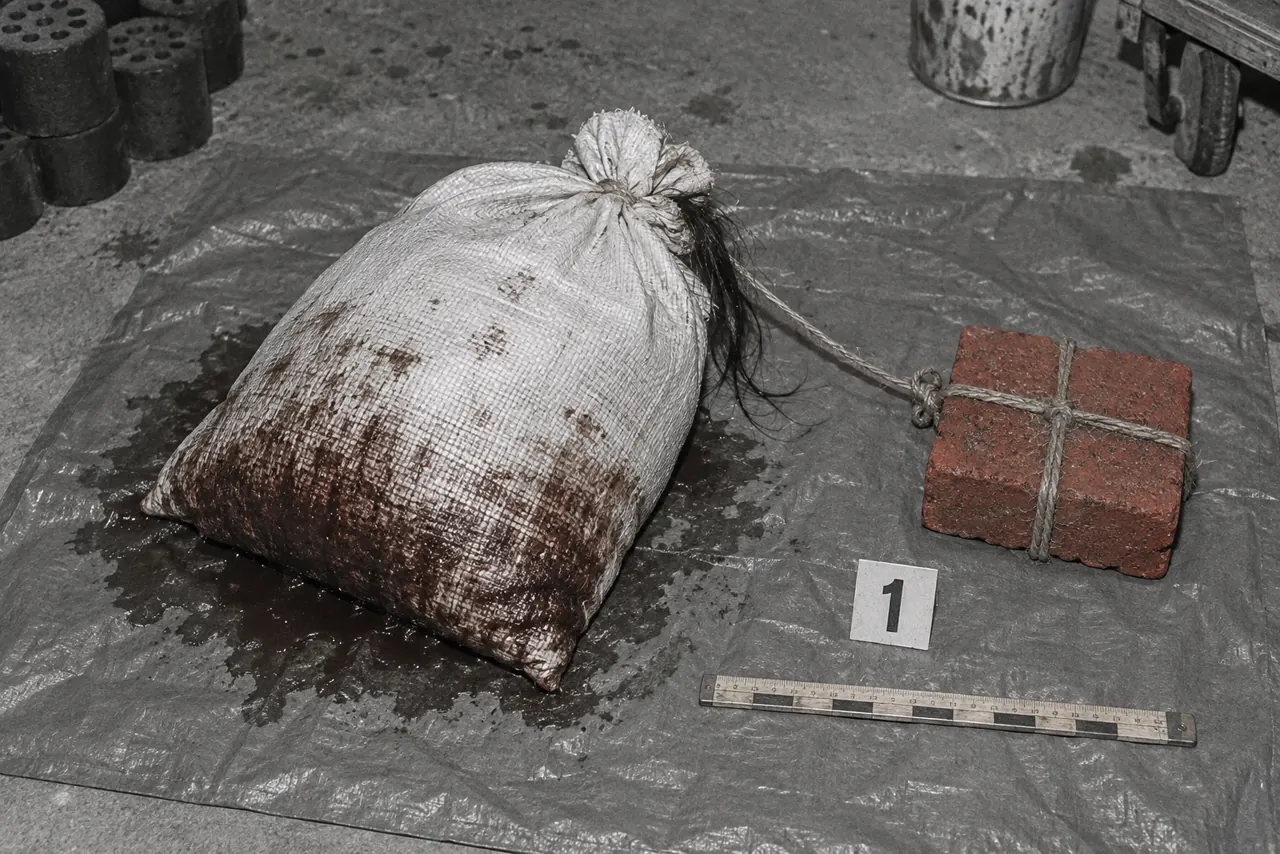
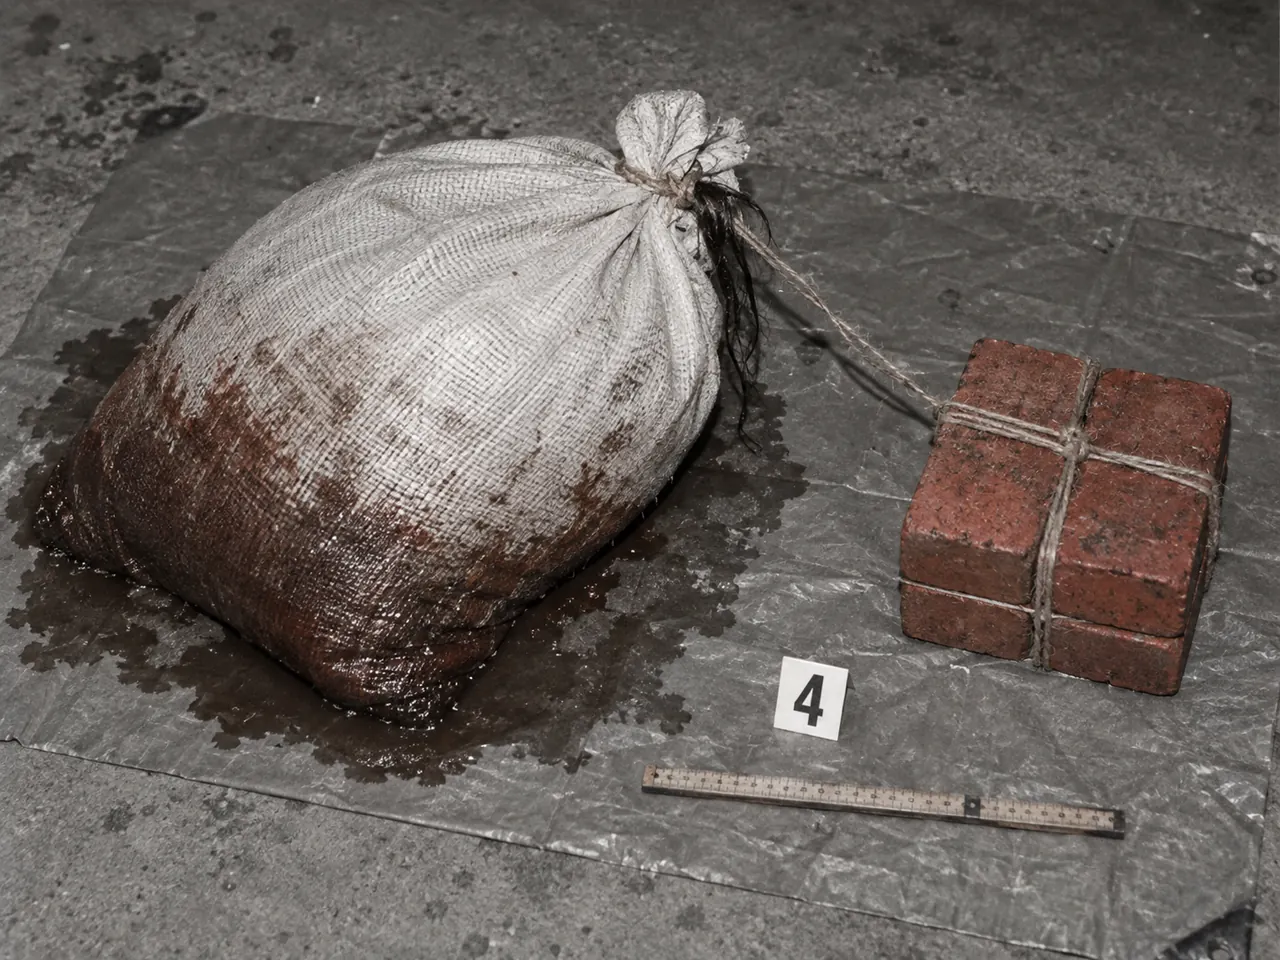
The CASE 11 evidence photo of the fourth sack now shows the four red bricks the records count (two by two, bound in a cross), not a single brick

diff --git a/img/manifest.js b/img/manifest.js
@@ -204,7 +204,7 @@ window.MG.images = {
   "c11/news_shop": "img/c11/news_shop.webp?v=9da5449d",
   "c11/news_workshop": "img/c11/news_workshop.webp?v=7d2b2172",
   "c11/occ_reeds": "img/c11/occ_reeds.webp?v=1f91f230",
-  "c11/photo_sack": "img/c11/photo_sack.webp?v=334abcea",
+  "c11/photo_sack": "img/c11/photo_sack.webp?v=0cc3afc0",
   "c11/ph_lumi": "img/c11/ph_lumi.webp?v=ac7ae0a0",
   "c11/ph_match": "img/c11/ph_match.webp?v=48c982f4",
   "c11/ph_print": "img/c11/ph_print.webp?v=5c534f00",
@@ -299,4 +299,4 @@ window.MG.images = {
   "_global/paper": "img/_global/paper.webp?v=da0f1de2",
   "_global/warn": "img/_global/warn.webp?v=1bc88cad"
 };
-window.MG.imageSize = {"c00/award":[1280,854],"c00/booth":[1280,960],"c00/bridge":[1280,960],"c00/cake":[1280,854],"c00/cat":[1280,960],"c00/cover":[1280,960],"c00/cover_bg":[640,480],"c00/cover_s":[260,196],"c00/cup":[1280,854],"c00/desk":[1280,960],"c00/doorbag":[1280,960],"c00/sketch":[1280,854],"c01/b_register":[1280,854],"c01/cover":[1280,960],"c01/cover_bg":[640,480],"c01/cover_s":[260,196],"c01/l_letter":[1280,960],"c01/l_postcard":[1280,854],"c01/l_slip":[1280,854],"c01/map":[1280,1170],"c01/q_lamp":[1280,854],"c01/q_thread":[1280,1072],"c01/s_candle":[1280,854],"c01/s_court":[1280,854],"c01/s_fundbox":[1280,854],"c01/s_patrol":[1280,854],"c01/s_sailor":[1280,854],"c01/s_tanners":[1280,854],"c02/attic":[1280,854],"c02/autopsy_table":[1280,960],"c02/barn_floor":[1280,960],"c02/calendar":[1280,1170],"c02/cover":[1280,854],"c02/cover_bg":[640,428],"c02/cover_s":[260,174],"c02/farm":[1280,854],"c02/hausbuch":[1280,854],"c02/hut":[1280,854],"c02/kasten":[1280,1170],"c02/kitchen":[1280,854],"c02/lock":[1280,1072],"c02/mailbox":[1280,854],"c02/plan":[1280,854],"c02/sk_kitchen":[1280,854],"c02/sk_stall":[1280,854],"c02/sledge":[1280,406],"c02/stall":[1280,854],"c02/suitcase":[1280,960],"c03/b_cafe":[1280,854],"c03/b_sewing":[1280,854],"c03/cover":[1280,1066],"c03/cover_bg":[640,534],"c03/cover_s":[260,216],"c03/map":[1222,1288],"c03/n_boheol":[1280,1072],"c03/n_jodk":[1280,854],"c03/n_singer":[1280,1072],"c03/p_radio":[1280,1024],"c03/p_safe":[1280,1170],"c03/p_shop":[1280,854],"c03/p_well":[1280,854],"c04/bike":[1280,854],"c04/bikephoto":[1280,960],"c04/boxes":[1280,960],"c04/cover":[1280,854],"c04/cover_bg":[640,428],"c04/cover_s":[260,174],"c04/flare":[1280,960],"c04/kurotaki":[1280,854],"c04/letter":[1280,854],"c04/map":[1280,854],"c04/matchbox":[1280,960],"c04/montage":[1030,1182],"c04/scene":[1280,720],"c04/siteboard":[1280,960],"c04/wind":[1280,960],"c05/cedar":[1280,720],"c05/cedar_car":[1280,960],"c05/cipherimg":[1280,960],"c05/cover":[1280,960],"c05/cover_bg":[640,480],"c05/cover_s":[260,196],"c05/depot":[1280,720],"c05/env_four":[1280,854],"c05/env_ref":[1280,854],"c05/env_sheriff":[1280,854],"c05/env_star":[1280,854],"c05/env_typed":[1280,854],"c05/letter1":[1280,854],"c05/lighthouse":[1280,720],"c05/masonhill":[1280,720],"c05/mh_car":[1280,960],"c05/payphone":[1086,1448],"c05/sketch":[1086,1448],"c05/truck":[1280,720],"c05/typed":[1280,960],"c06/autopsy_sheet":[1244,932],"c06/bags_table":[1280,854],"c06/cover":[1280,854],"c06/cover_bg":[640,428],"c06/cover_s":[260,174],"c06/fuel":[1280,854],"c06/harbor":[1280,854],"c06/hytte":[1280,854],"c06/regcard":[1280,960],"c06/scene_hollow":[1280,960],"c06/ship":[1280,854],"c06/station":[1280,854],"c06/stern":[1280,854],"c06/suitcases":[1280,960],"c06/thermos":[1280,854],"c06/touristmap":[1280,960],"c06/valley":[1280,960],"c07/cover":[1280,854],"c07/cover_bg":[640,428],"c07/cover_s":[260,174],"c07/handbag":[1280,960],"c07/house":[1280,960],"c07/ledger_page":[1280,960],"c07/news_car":[1280,854],"c07/photo_car":[1280,854],"c07/photo_seat":[1280,854],"c07/scene_map":[1280,854],"c07/seokcar":[1280,854],"c07/shop":[1280,854],"c07/songwol_gate":[1280,854],"c07/switchboard":[1280,960],"c07/tv":[1254,1254],"c08/booth":[1280,854],"c08/church":[1086,1448],"c08/cover":[1280,854],"c08/cover_bg":[640,428],"c08/cover_s":[260,174],"c08/flyer":[1280,854],"c08/keys":[1280,960],"c08/map":[1280,854],"c08/montage":[1086,1448],"c08/montage_print":[1086,1448],"c08/news_site":[1280,960],"c08/note_paper":[1280,854],"c08/rail":[1280,854],"c08/ransom_bag":[1280,854],"c08/sg_call":[1200,576],"c08/sg_han":[1200,576],"c08/sg_jang":[1200,576],"c08/sg_tak":[1200,576],"c08/sg_yeom":[1200,576],"c08/shop_ledger":[1280,960],"c08/warehouse":[1280,960],"c09/busstop":[1280,854],"c09/cctv":[1280,854],"c09/courier_room":[1280,854],"c09/cover":[1280,960],"c09/cover_bg":[640,480],"c09/cover_s":[260,196],"c09/door":[1280,960],"c09/frames":[1280,960],"c09/haeun_photo":[1280,854],"c09/house204":[1280,960],"c09/house217":[1280,960],"c09/house219":[1280,854],"c09/house226":[1280,854],"c09/house230":[1280,960],"c09/map":[1280,854],"c09/mt_photo":[1280,854],"c09/ph217":[1280,960],"c09/ph219":[1280,960],"c09/roof":[1280,854],"c09/sora_photo":[1280,960],"c10/cam_a":[1280,854],"c10/cam_b":[1280,854],"c10/cam_pier":[1280,960],"c10/cam_store":[1280,960],"c10/cam_taxi":[1280,854],"c10/cap":[1280,960],"c10/cover":[1280,854],"c10/cover_bg":[640,428],"c10/cover_s":[260,174],"c10/crates":[1280,960],"c10/hoesik":[1280,960],"c10/pier_day":[1280,960],"c11/autopsy_room":[1280,854],"c11/bus":[1280,854],"c11/butcher_floor":[1280,854],"c11/butcher_lumi":[1280,854],"c11/cover":[1280,854],"c11/cover_bg":[640,428],"c11/cover_s":[260,174],"c11/cut_a":[1280,854],"c11/cut_b":[1280,854],"c11/cut_c":[1280,854],"c11/cut_d":[1280,854],"c11/cut_ev":[1280,854],"c11/gauge":[1280,854],"c11/items_table":[1280,854],"c11/ledger_page":[1280,854],"c11/news_bridge":[1280,854],"c11/news_divers":[1280,854],"c11/news_reeds":[1280,854],"c11/news_shop":[1280,854],"c11/news_workshop":[1280,854],"c11/occ_reeds":[1280,854],"c11/photo_sack":[1280,854],"c11/ph_lumi":[1280,854],"c11/ph_match":[1280,854],"c11/ph_print":[1280,854],"c11/workshop_floor":[1280,854],"c12/bagsample":[1280,854],"c12/boiler":[1280,854],"c12/butcher":[1280,854],"c12/cleancart":[1280,1024],"c12/cover":[1280,854],"c12/cover_bg":[640,428],"c12/cover_s":[260,174],"c12/dengon":[1280,854],"c12/luminol":[1280,854],"c12/n_park":[1280,854],"c12/pinkphone":[1024,1536],"c12/room":[1280,1072],"c12/scene_bin":[1280,854],"c12/sento":[1024,1536],"c12/sk_east":[1280,854],"c12/sk_lum":[1280,854],"c12/sk_sento":[1280,854],"c12/store":[1280,854],"c12/trap":[1280,854],"c12/videocard":[1280,854],"c12/wp":[1280,854],"c13/alley_day":[1280,960],"c13/bread":[1280,960],"c13/cctv_drop":[1280,720],"c13/cctv_pick":[1280,720],"c13/counter":[1280,854],"c13/cover":[1280,960],"c13/cover_bg":[640,480],"c13/cover_s":[260,196],"c13/door":[1280,960],"c13/drop":[1280,960],"c13/kick":[1280,960],"c13/locker":[1280,960],"c13/room":[1280,854],"c13/store":[1280,960],"c13/tablet":[1280,960],"c14/atm":[1280,960],"c14/bankbook":[1280,960],"c14/calendar":[1280,960],"c14/cover":[1280,960],"c14/cover_bg":[640,480],"c14/cover_s":[260,196],"c14/fakedoc":[1280,960],"c14/lock":[1280,960],"c14/market":[1280,960],"c14/oksun":[1280,960],"c14/park":[1280,720],"c14/scooter":[1280,960],"c14/sk_door":[1280,854],"c14/sk_locker":[1280,854],"c14/stakeout":[1280,720],"c15/carlot":[1280,854],"c15/carwash":[1280,720],"c15/cctv_lane":[1280,960],"c15/cover":[1280,960],"c15/cover_bg":[640,480],"c15/cover_s":[260,196],"c15/elev_cam":[1280,960],"c15/futsal":[1280,960],"c15/helmet_cam":[1280,720],"c15/note_photo":[1280,960],"c15/plate_photo":[1280,960],"c15/shoes":[1280,960],"c15/tracker_photo":[1280,960],"c15/watch_found":[1280,960],"_desk/ashtray":[600,594],"_desk/cassette":[600,400],"_desk/clips":[600,616],"_desk/energy":[600,600],"_desk/evidencebag":[600,900],"_desk/flipphone":[600,970],"_desk/glasses":[600,208],"_desk/inkpen":[600,588],"_desk/lanyard":[600,600],"_desk/magnifier":[600,602],"_desk/matchbox":[600,552],"_desk/mug":[600,488],"_desk/pager":[600,560],"_desk/pencil":[600,70],"_desk/pocketwatch":[600,588],"_desk/radio":[600,900],"_desk/smartphone":[600,1096],"_desk/stamp":[600,548],"_desk/takeaway":[600,706],"_desk/teacup":[600,602],"_global/desk":[1024,1024],"_global/hero":[1672,942],"_global/paper":[1024,1024],"_global/warn":[600,200]};
+window.MG.imageSize = {"c00/award":[1280,854],"c00/booth":[1280,960],"c00/bridge":[1280,960],"c00/cake":[1280,854],"c00/cat":[1280,960],"c00/cover":[1280,960],"c00/cover_bg":[640,480],"c00/cover_s":[260,196],"c00/cup":[1280,854],"c00/desk":[1280,960],"c00/doorbag":[1280,960],"c00/sketch":[1280,854],"c01/b_register":[1280,854],"c01/cover":[1280,960],"c01/cover_bg":[640,480],"c01/cover_s":[260,196],"c01/l_letter":[1280,960],"c01/l_postcard":[1280,854],"c01/l_slip":[1280,854],"c01/map":[1280,1170],"c01/q_lamp":[1280,854],"c01/q_thread":[1280,1072],"c01/s_candle":[1280,854],"c01/s_court":[1280,854],"c01/s_fundbox":[1280,854],"c01/s_patrol":[1280,854],"c01/s_sailor":[1280,854],"c01/s_tanners":[1280,854],"c02/attic":[1280,854],"c02/autopsy_table":[1280,960],"c02/barn_floor":[1280,960],"c02/calendar":[1280,1170],"c02/cover":[1280,854],"c02/cover_bg":[640,428],"c02/cover_s":[260,174],"c02/farm":[1280,854],"c02/hausbuch":[1280,854],"c02/hut":[1280,854],"c02/kasten":[1280,1170],"c02/kitchen":[1280,854],"c02/lock":[1280,1072],"c02/mailbox":[1280,854],"c02/plan":[1280,854],"c02/sk_kitchen":[1280,854],"c02/sk_stall":[1280,854],"c02/sledge":[1280,406],"c02/stall":[1280,854],"c02/suitcase":[1280,960],"c03/b_cafe":[1280,854],"c03/b_sewing":[1280,854],"c03/cover":[1280,1066],"c03/cover_bg":[640,534],"c03/cover_s":[260,216],"c03/map":[1222,1288],"c03/n_boheol":[1280,1072],"c03/n_jodk":[1280,854],"c03/n_singer":[1280,1072],"c03/p_radio":[1280,1024],"c03/p_safe":[1280,1170],"c03/p_shop":[1280,854],"c03/p_well":[1280,854],"c04/bike":[1280,854],"c04/bikephoto":[1280,960],"c04/boxes":[1280,960],"c04/cover":[1280,854],"c04/cover_bg":[640,428],"c04/cover_s":[260,174],"c04/flare":[1280,960],"c04/kurotaki":[1280,854],"c04/letter":[1280,854],"c04/map":[1280,854],"c04/matchbox":[1280,960],"c04/montage":[1030,1182],"c04/scene":[1280,720],"c04/siteboard":[1280,960],"c04/wind":[1280,960],"c05/cedar":[1280,720],"c05/cedar_car":[1280,960],"c05/cipherimg":[1280,960],"c05/cover":[1280,960],"c05/cover_bg":[640,480],"c05/cover_s":[260,196],"c05/depot":[1280,720],"c05/env_four":[1280,854],"c05/env_ref":[1280,854],"c05/env_sheriff":[1280,854],"c05/env_star":[1280,854],"c05/env_typed":[1280,854],"c05/letter1":[1280,854],"c05/lighthouse":[1280,720],"c05/masonhill":[1280,720],"c05/mh_car":[1280,960],"c05/payphone":[1086,1448],"c05/sketch":[1086,1448],"c05/truck":[1280,720],"c05/typed":[1280,960],"c06/autopsy_sheet":[1244,932],"c06/bags_table":[1280,854],"c06/cover":[1280,854],"c06/cover_bg":[640,428],"c06/cover_s":[260,174],"c06/fuel":[1280,854],"c06/harbor":[1280,854],"c06/hytte":[1280,854],"c06/regcard":[1280,960],"c06/scene_hollow":[1280,960],"c06/ship":[1280,854],"c06/station":[1280,854],"c06/stern":[1280,854],"c06/suitcases":[1280,960],"c06/thermos":[1280,854],"c06/touristmap":[1280,960],"c06/valley":[1280,960],"c07/cover":[1280,854],"c07/cover_bg":[640,428],"c07/cover_s":[260,174],"c07/handbag":[1280,960],"c07/house":[1280,960],"c07/ledger_page":[1280,960],"c07/news_car":[1280,854],"c07/photo_car":[1280,854],"c07/photo_seat":[1280,854],"c07/scene_map":[1280,854],"c07/seokcar":[1280,854],"c07/shop":[1280,854],"c07/songwol_gate":[1280,854],"c07/switchboard":[1280,960],"c07/tv":[1254,1254],"c08/booth":[1280,854],"c08/church":[1086,1448],"c08/cover":[1280,854],"c08/cover_bg":[640,428],"c08/cover_s":[260,174],"c08/flyer":[1280,854],"c08/keys":[1280,960],"c08/map":[1280,854],"c08/montage":[1086,1448],"c08/montage_print":[1086,1448],"c08/news_site":[1280,960],"c08/note_paper":[1280,854],"c08/rail":[1280,854],"c08/ransom_bag":[1280,854],"c08/sg_call":[1200,576],"c08/sg_han":[1200,576],"c08/sg_jang":[1200,576],"c08/sg_tak":[1200,576],"c08/sg_yeom":[1200,576],"c08/shop_ledger":[1280,960],"c08/warehouse":[1280,960],"c09/busstop":[1280,854],"c09/cctv":[1280,854],"c09/courier_room":[1280,854],"c09/cover":[1280,960],"c09/cover_bg":[640,480],"c09/cover_s":[260,196],"c09/door":[1280,960],"c09/frames":[1280,960],"c09/haeun_photo":[1280,854],"c09/house204":[1280,960],"c09/house217":[1280,960],"c09/house219":[1280,854],"c09/house226":[1280,854],"c09/house230":[1280,960],"c09/map":[1280,854],"c09/mt_photo":[1280,854],"c09/ph217":[1280,960],"c09/ph219":[1280,960],"c09/roof":[1280,854],"c09/sora_photo":[1280,960],"c10/cam_a":[1280,854],"c10/cam_b":[1280,854],"c10/cam_pier":[1280,960],"c10/cam_store":[1280,960],"c10/cam_taxi":[1280,854],"c10/cap":[1280,960],"c10/cover":[1280,854],"c10/cover_bg":[640,428],"c10/cover_s":[260,174],"c10/crates":[1280,960],"c10/hoesik":[1280,960],"c10/pier_day":[1280,960],"c11/autopsy_room":[1280,854],"c11/bus":[1280,854],"c11/butcher_floor":[1280,854],"c11/butcher_lumi":[1280,854],"c11/cover":[1280,854],"c11/cover_bg":[640,428],"c11/cover_s":[260,174],"c11/cut_a":[1280,854],"c11/cut_b":[1280,854],"c11/cut_c":[1280,854],"c11/cut_d":[1280,854],"c11/cut_ev":[1280,854],"c11/gauge":[1280,854],"c11/items_table":[1280,854],"c11/ledger_page":[1280,854],"c11/news_bridge":[1280,854],"c11/news_divers":[1280,854],"c11/news_reeds":[1280,854],"c11/news_shop":[1280,854],"c11/news_workshop":[1280,854],"c11/occ_reeds":[1280,854],"c11/photo_sack":[1280,960],"c11/ph_lumi":[1280,854],"c11/ph_match":[1280,854],"c11/ph_print":[1280,854],"c11/workshop_floor":[1280,854],"c12/bagsample":[1280,854],"c12/boiler":[1280,854],"c12/butcher":[1280,854],"c12/cleancart":[1280,1024],"c12/cover":[1280,854],"c12/cover_bg":[640,428],"c12/cover_s":[260,174],"c12/dengon":[1280,854],"c12/luminol":[1280,854],"c12/n_park":[1280,854],"c12/pinkphone":[1024,1536],"c12/room":[1280,1072],"c12/scene_bin":[1280,854],"c12/sento":[1024,1536],"c12/sk_east":[1280,854],"c12/sk_lum":[1280,854],"c12/sk_sento":[1280,854],"c12/store":[1280,854],"c12/trap":[1280,854],"c12/videocard":[1280,854],"c12/wp":[1280,854],"c13/alley_day":[1280,960],"c13/bread":[1280,960],"c13/cctv_drop":[1280,720],"c13/cctv_pick":[1280,720],"c13/counter":[1280,854],"c13/cover":[1280,960],"c13/cover_bg":[640,480],"c13/cover_s":[260,196],"c13/door":[1280,960],"c13/drop":[1280,960],"c13/kick":[1280,960],"c13/locker":[1280,960],"c13/room":[1280,854],"c13/store":[1280,960],"c13/tablet":[1280,960],"c14/atm":[1280,960],"c14/bankbook":[1280,960],"c14/calendar":[1280,960],"c14/cover":[1280,960],"c14/cover_bg":[640,480],"c14/cover_s":[260,196],"c14/fakedoc":[1280,960],"c14/lock":[1280,960],"c14/market":[1280,960],"c14/oksun":[1280,960],"c14/park":[1280,720],"c14/scooter":[1280,960],"c14/sk_door":[1280,854],"c14/sk_locker":[1280,854],"c14/stakeout":[1280,720],"c15/carlot":[1280,854],"c15/carwash":[1280,720],"c15/cctv_lane":[1280,960],"c15/cover":[1280,960],"c15/cover_bg":[640,480],"c15/cover_s":[260,196],"c15/elev_cam":[1280,960],"c15/futsal":[1280,960],"c15/helmet_cam":[1280,720],"c15/note_photo":[1280,960],"c15/plate_photo":[1280,960],"c15/shoes":[1280,960],"c15/tracker_photo":[1280,960],"c15/watch_found":[1280,960],"_desk/ashtray":[600,594],"_desk/cassette":[600,400],"_desk/clips":[600,616],"_desk/energy":[600,600],"_desk/evidencebag":[600,900],"_desk/flipphone":[600,970],"_desk/glasses":[600,208],"_desk/inkpen":[600,588],"_desk/lanyard":[600,600],"_desk/magnifier":[600,602],"_desk/matchbox":[600,552],"_desk/mug":[600,488],"_desk/pager":[600,560],"_desk/pencil":[600,70],"_desk/pocketwatch":[600,588],"_desk/radio":[600,900],"_desk/smartphone":[600,1096],"_desk/stamp":[600,548],"_desk/takeaway":[600,706],"_desk/teacup":[600,602],"_global/desk":[1024,1024],"_global/hero":[1672,942],"_global/paper":[1024,1024],"_global/warn":[600,200]};
